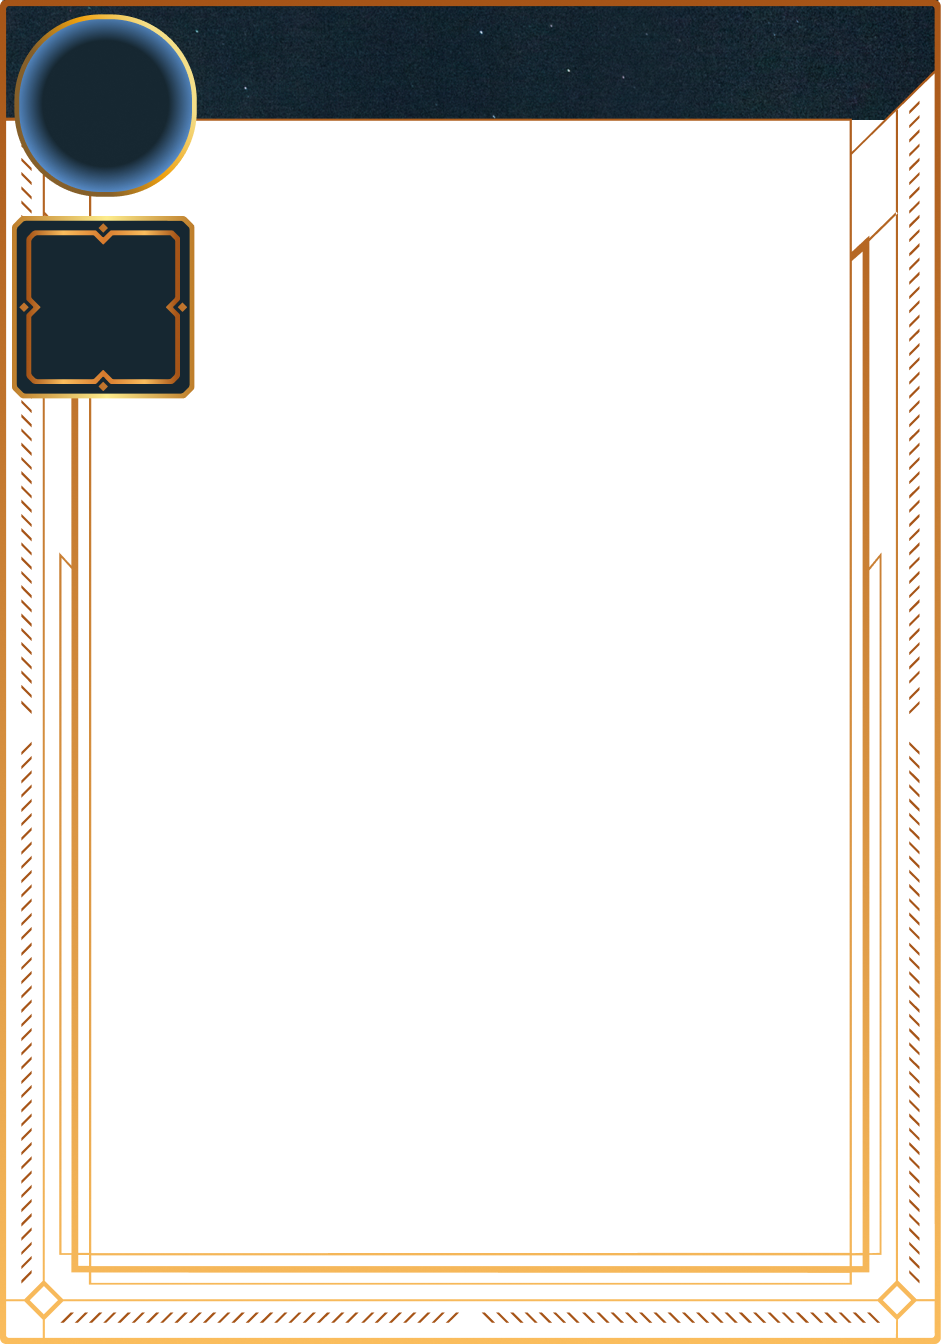
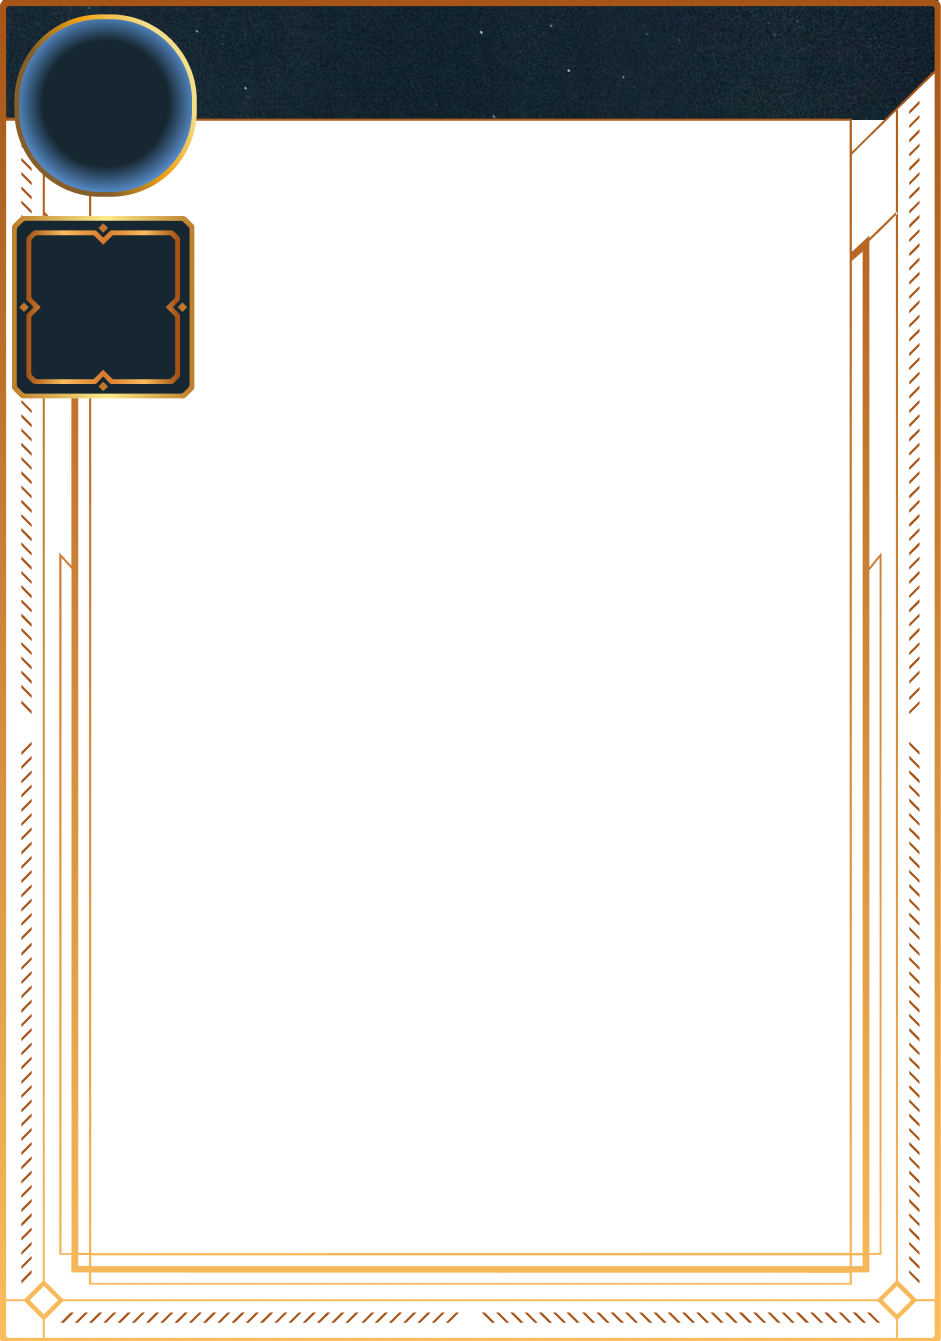
sizing tweaks and discord on card

diff --git a/app/profile/PlayerCard.tsx b/app/profile/PlayerCard.tsx
@@ -5,10 +5,10 @@ import { DbFullSession, DbPublicProfile } from '@/types/database/dbTypeAliases'
 
 // Establish some base numbers
 const CARD_WIDTH = 941
-const CARD_HEIGHT = 1344
+const CARD_HEIGHT = 1341
 const FRAME_FROM_EDGE = 92
-const CIRCLE_FROM_EDGE = 20
-const CIRCLE_DIAMETER = 172
+const CIRCLE_FROM_EDGE = 19
+const CIRCLE_DIAMETER = 173
 const SQUARE_FROM_EDGE = 32
 const SQUARE_FROM_TOP = 235
 const SQUARE_SIZE = 143
@@ -38,7 +38,7 @@ export default function PlayerCard({
   }
   return (
     <div
-      className="relative aspect-[944/1344] max-w-full font-imfell"
+      className="relative max-w-full overflow-hidden rounded-[2px] font-imfell"
       style={{
         width: BASELINE_CARD_WIDTH,
         aspectRatio: CARD_WIDTH / CARD_HEIGHT,
@@ -50,6 +50,13 @@ export default function PlayerCard({
         alt="Celestial Base Color"
         fill
         className="z-1 object-cover"
+      />
+      {/* Frame Overlay */}
+      <Image
+        src="/images/cards/celestial-frame.png"
+        alt="Frame overlay"
+        fill
+        className="z-3 object-cover"
       />
       {/* Breath Square icon */}
       <div
@@ -89,12 +96,23 @@ export default function PlayerCard({
       {
         /*hostedSessions.length > 0 && */ <div
           style={{
-            top: 4 * scale,
-            right: 20 * scale,
+            top: 35 * scale,
+            right: 55 * scale,
           }}
           className="absolute z-4 text-sm text-white"
         >
-          <span>Hosting: {hostedSessions.length}</span>
+          <span className="flex items-center gap-1">
+            Hosting:
+            <div
+              style={{
+                width: 50 * scale,
+                height: 50 * scale,
+              }}
+              className="flex items-center justify-center rounded-full bg-gray-500 p-1 text-secondary-300"
+            >
+              <strong className="font-serif">{hostedSessions.length}</strong>
+            </div>
+          </span>
         </div>
       }
       {/* Player picture */}
@@ -107,7 +125,7 @@ export default function PlayerCard({
         }}
         className="relative z-2 overflow-hidden"
       >
-        <div className="relative size-full overflow-hidden bg-gradient-to-br from-stone-400 via-stone-700 to-stone-400 p-2">
+        <div className="relative size-full overflow-hidden rounded-b-xs bg-gradient-to-br from-stone-400 via-stone-700 to-stone-400 p-2">
           {/* Gray border */}
           <Image
             src={washImageSrcs.unassigned}
@@ -116,25 +134,18 @@ export default function PlayerCard({
             className="z-1 object-cover"
           />
           {/* flash thing */}
-          <div className="animate-flash absolute inset-0 z-1 h-[200%] w-[20%] bg-gradient-to-r from-transparent via-yellow-100 to-transparent"></div>
+          <div className="absolute inset-0 z-1 h-[200%] w-[20%] animate-flash bg-gradient-to-r from-transparent via-gray-300 to-transparent"></div>
           <div className="relative size-full">
             <Image
               id="player-picture"
               src={profile?.profile_pictures_url ?? '/images/incognito.svg'}
               alt="Profile picture"
               fill
-              className="z-2 object-cover"
+              className="z-2 rounded-sm object-cover"
             />
           </div>
         </div>
       </div>
-      {/* Frame Overlay */}
-      <Image
-        src="/images/cards/celestial-frame.png"
-        alt="Frame overlay"
-        fill
-        className="z-3 object-cover"
-      />
       {/* Sub Profile Picture */}
       <div
         style={{
@@ -198,8 +209,8 @@ export default function PlayerCard({
             </span>
           </div>
         </div>
-        {/* Bottom left */}
-        <div className="absolute right-0 bottom-0 flex items-center gap-1 p-1">
+        {/* Bottom right */}
+        <div className="absolute right-0 bottom-0 flex items-center gap-1 pr-1">
           <GlobeIcon className="size-3" />
           <a
             href={profile?.site_url ?? ''}
@@ -208,6 +219,16 @@ export default function PlayerCard({
           >
             {profile?.site_url}
           </a>
+        </div>
+        {/* Bottom left */}
+        <div className="absolute bottom-0 left-0 flex items-center gap-1 pl-1">
+          <Image
+            src="/logos/discord-logo.svg"
+            alt="D"
+            width={40 * scale}
+            height={40 * scale}
+          />
+          {profile?.discord_handle ?? 'Discord Handle'}
         </div>
       </div>
     </div>

diff --git a/app/globals.css b/app/globals.css
@@ -91,12 +91,12 @@
   --font-sans:
     Jura, ui-sans-serif, system-ui, sans-serif, 'Apple Color Emoji',
     'Segoe UI Emoji', 'Segoe UI Symbol', 'Noto Color Emoji';
-  --font-imfell:
-    'IM Fell English', ui-serif, serif, 'Apple Color Emoji';
-  /* Keyframes */ 
+  --font-imfell: 'IM Fell English', ui-serif, serif, 'Apple Color Emoji';
+  /* Keyframes */
   --animate-coin-pop: coin-pop 0.6s ease-out;
   --animate-fade-in: fade-in 0.5s ease-in forwards;
   --animate-fade-out: fade-out 0.5s linear forwards;
+  --animate-flash: flash 2s linear infinite;
 }
 
 /* Keyframe definitions */
@@ -114,7 +114,17 @@
     opacity: 0;
   }
 }
-
+@keyframes flash {
+  0% {
+    transform: rotate(45deg) translateX(-500%) translateY(-30%);
+  }
+  65% {
+    transform: rotate(45deg) translateX(-500%) translateY(-30%);
+  }
+  100% {
+    transform: rotate(45deg) translateX(500%) translateY(-30%);
+  }
+}
 @keyframes fade-in {
   0% {
     opacity: 0;
@@ -581,20 +591,4 @@ html::before {
   .link {
     @apply cursor-pointer text-secondary-300 underline;
   }
-}
-
-@keyframes flash {
-  0% {
-    transform: rotate(45deg) translateX(-500%) translateY(-30%);
-  }
-  33% {
-    transform: rotate(45deg) translateX(-500%) translateY(-30%);
-  }
-  100% {
-    transform: rotate(45deg) translateX(500%) translateY(-30%);
-  }
-}
-
-.animate-flash {
-  animation: flash 1.8s linear infinite;
 }

diff --git a/app/profile/ProfileProvider.tsx b/app/profile/ProfileProvider.tsx
@@ -34,8 +34,10 @@ export default async function ProfileProvider() {
 
   return (
     <HydrationBoundary state={dehydrate(queryClient)}>
-      <Profile />
-      {user && <PlayerCardProvider userId={user.id} />}
+      <div className="flex flex-col items-center gap-4">
+        <Profile />
+        {user && <PlayerCardProvider userId={user.id} />}
+      </div>
     </HydrationBoundary>
   )
 }
